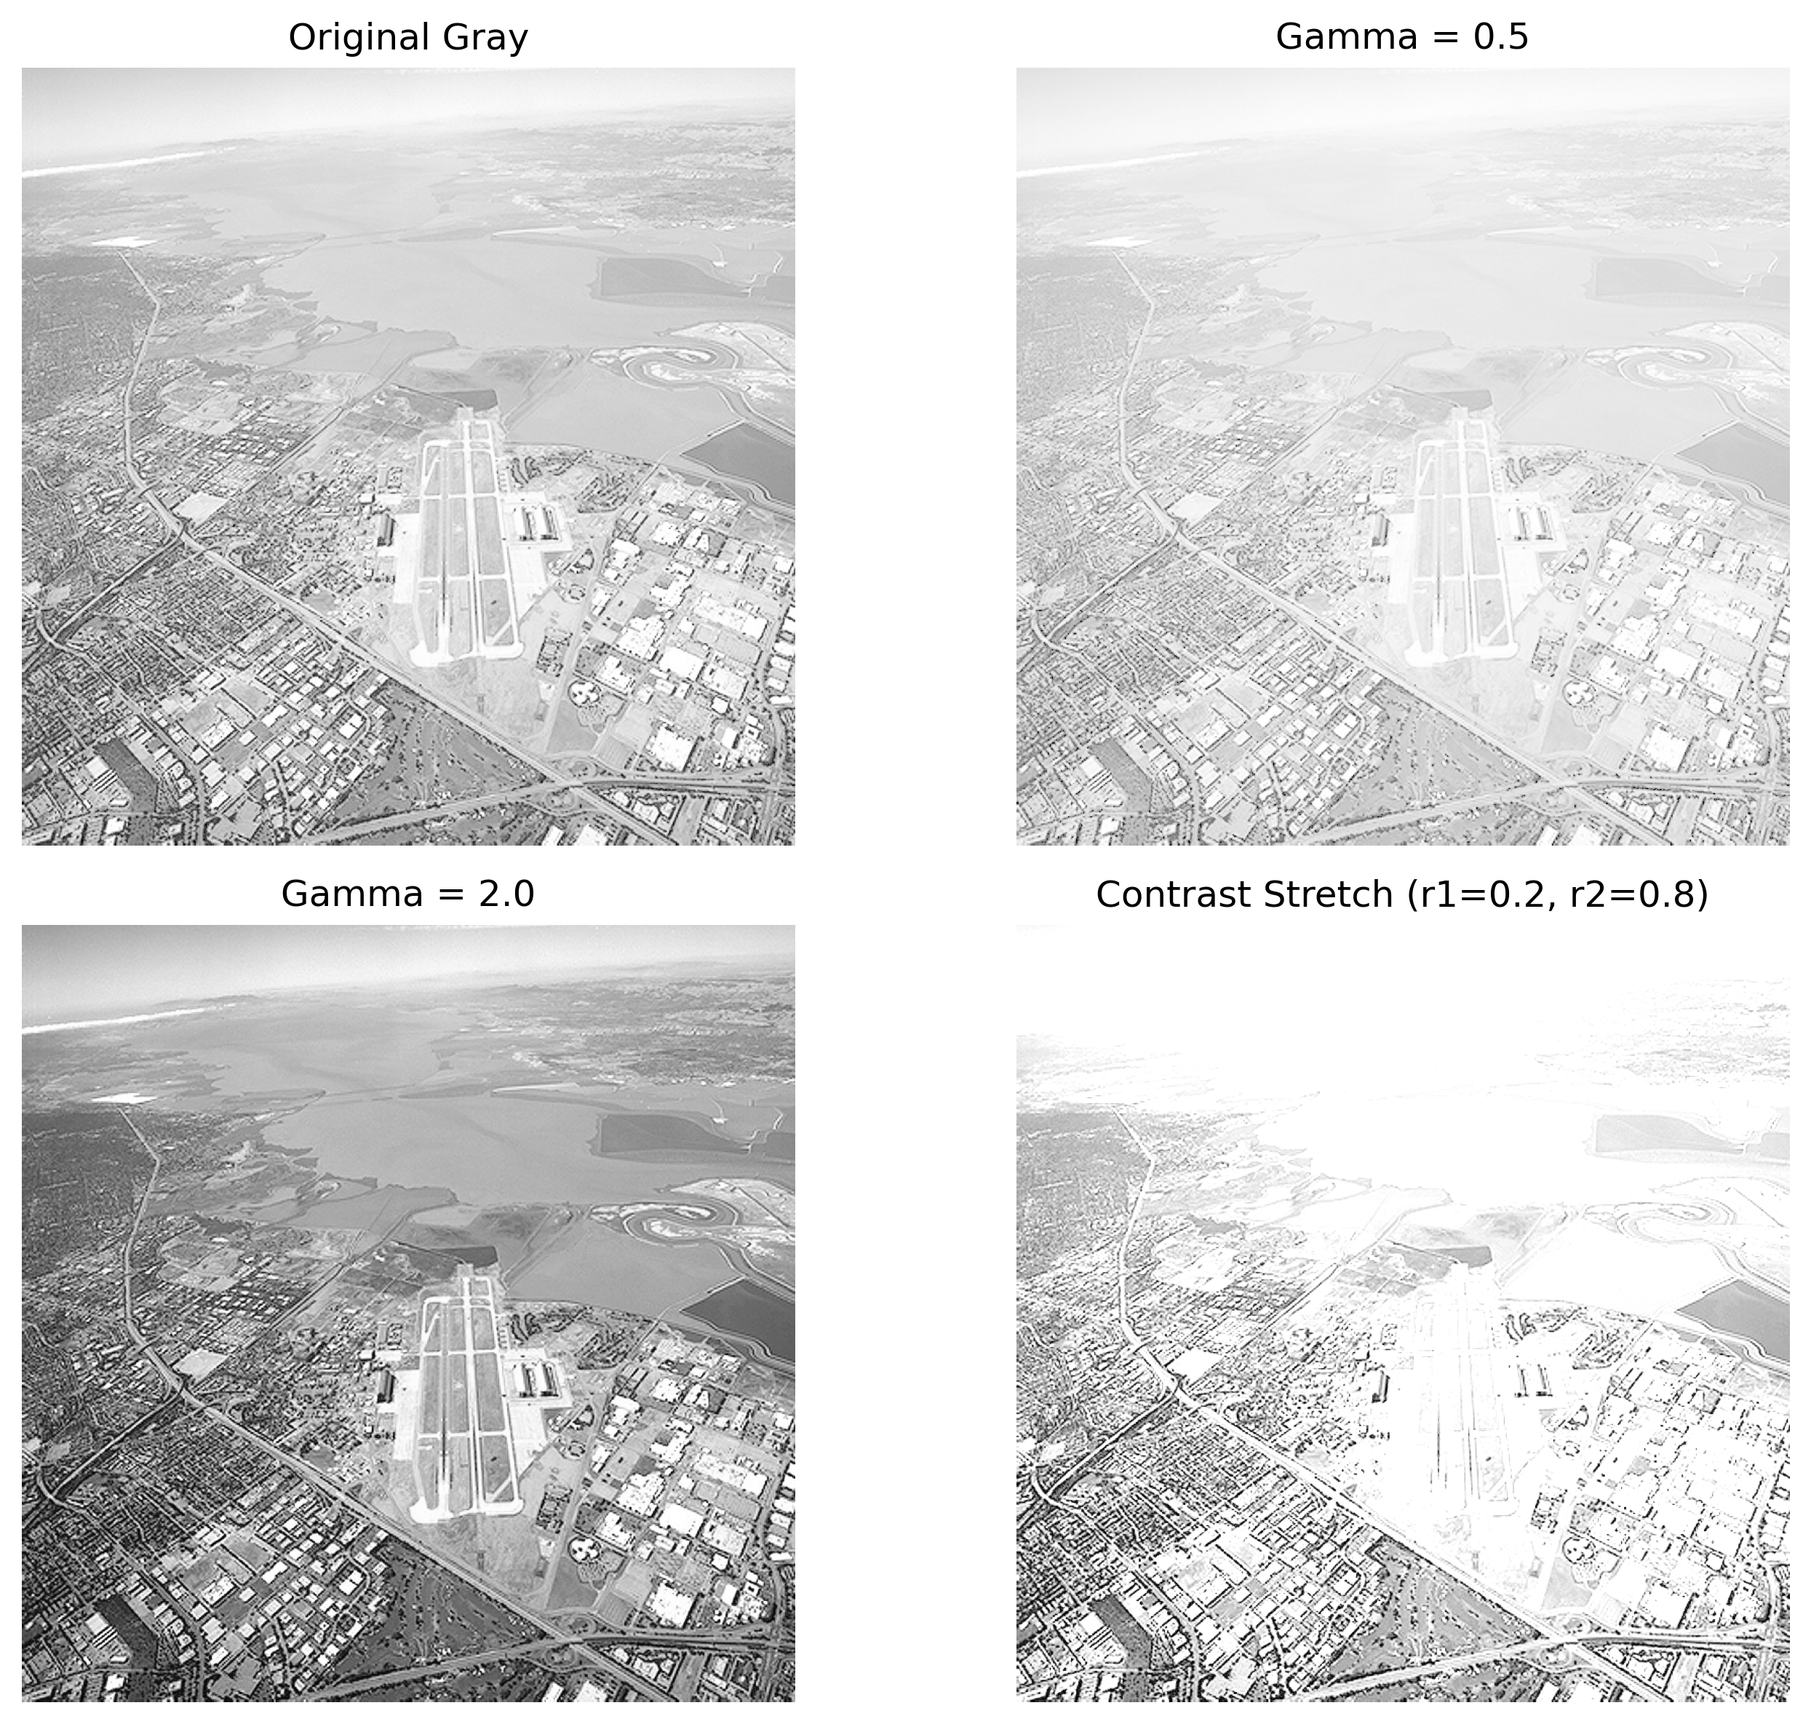
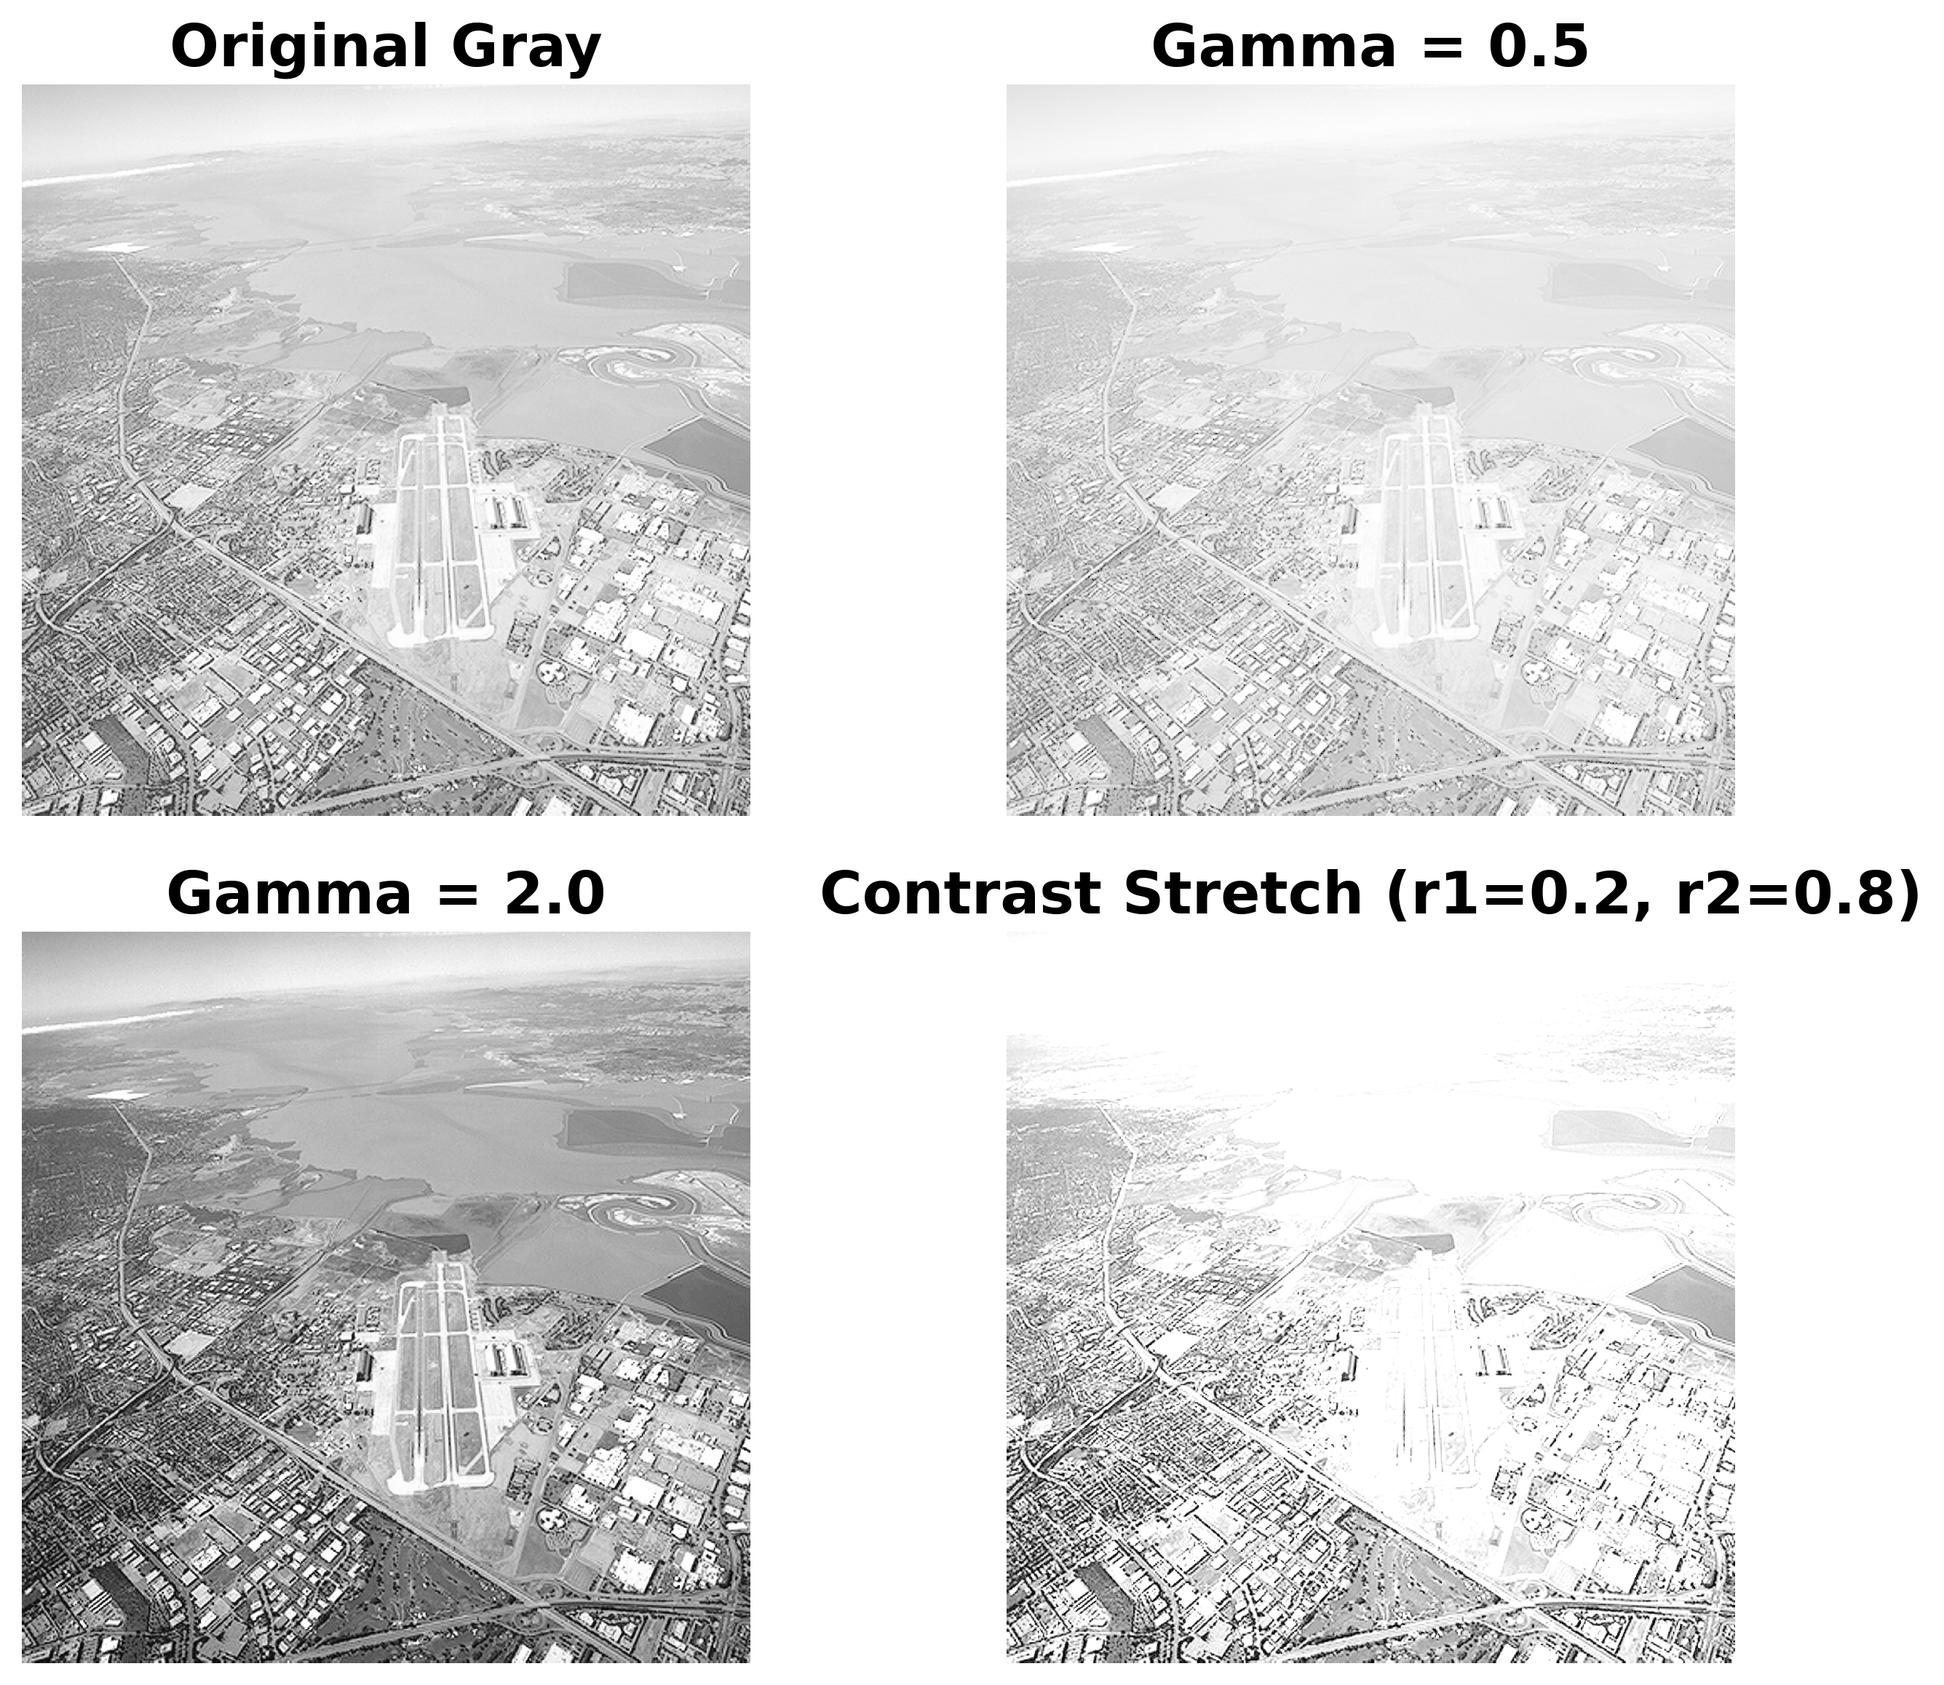
refactor: automate result saving and visualization for intensity transforms and image filtering tasks

diff --git a/code/question5.py b/code/question5.py
@@ -1,7 +1,9 @@
 import numpy as np
 import cv2
 import matplotlib.pyplot as plt
+plt.rcParams.update({'font.size': 16, 'font.weight': 'bold', 'axes.titleweight': 'bold', 'axes.labelweight': 'bold'})
 from mpl_toolkits.mplot3d import Axes3D
+from pathlib import Path
 
 def get_gaussian_kernel(size, sigma):
     """
@@ -19,12 +21,8 @@ def get_gaussian_kernel(size, sigma):
     kernel /= kernel.sum()
     return kernel
 
-# --- (a) Compute 5x5 kernel for sigma = 2 ---
-kernel_5x5 = get_gaussian_kernel(5, 2)
-print("5x5 Gaussian Kernel (sigma=2):\n", kernel_5x5)
-
 # --- (b) Visualize 51x51 kernel as a 3D surface plot ---
-def visualize_kernel_3d(size, sigma):
+def visualize_kernel_3d(size, sigma, output_path):
     kernel = get_gaussian_kernel(size, sigma)
     k = (size - 1) / 2
     x, y = np.mgrid[-k:k+1, -k:k+1]
@@ -39,46 +37,73 @@ def visualize_kernel_3d(size, sigma):
     ax.set_ylabel('Y')
     ax.set_zlabel('Kernel Coefficient (Height)')
     fig.colorbar(surf, ax=ax, shrink=0.5, aspect=5)
-    plt.show()
+    plt.savefig(output_path, dpi=300, bbox_inches='tight')
+    plt.close()
 
-visualize_kernel_3d(51, 2)
+def main():
+    root = Path(__file__).resolve().parent
+    output_dir = root.parent / "saved_results"
+    output_dir.mkdir(parents=True, exist_ok=True)
 
-# --- (c) & (d) Apply Smoothing ---
-# Load the runway image in grayscale [cite: 4, 5]
-# Replace 'runway.png' with your actual file path
-img = cv2.imread('runway.png', cv2.IMREAD_GRAYSCALE)
+    # --- (a) Compute 5x5 kernel for sigma = 2 ---
+    kernel_5x5 = get_gaussian_kernel(5, 2)
+    print("5x5 Gaussian Kernel (sigma=2):\n", kernel_5x5)
 
-if img is None:
-    print("Error: Could not load image. Please check the file path.")
-else:
-    # (c) Manual smoothing using the computed 5x5 kernel [cite: 28]
-    # cv2.filter2D performs the convolution operation
-    manual_blurred = cv2.filter2D(img, -1, kernel_5x5)
+    # --- (b) Visualize 51x51 kernel as a 3D surface plot ---
+    visualize_kernel_3d(51, 2, output_dir / "question5_3d_kernel.png")
 
-    # (d) Using OpenCV's built-in function [cite: 29]
-    opencv_blurred = cv2.GaussianBlur(img, (5, 5), 2)
+    # --- (c) & (d) Apply Smoothing ---
+    input_path = root / "runway.png"
+    if not input_path.exists():
+        input_path = root.parent / "saved_results" / "runway.png"
+    if not input_path.exists():
+        raise FileNotFoundError(f"Cannot find runway image at {input_path}")
+        
+    img = cv2.imread(str(input_path), cv2.IMREAD_GRAYSCALE)
 
-    # Display results for comparison [cite: 96]
-    plt.figure(figsize=(15, 5))
-    
-    plt.subplot(1, 3, 1)
-    plt.title("Original Grayscale")
-    plt.imshow(img, cmap='gray')
-    plt.axis('off')
+    if img is None:
+        print("Error: Could not load image. Please check the file path.")
+    else:
+        # (c) Manual smoothing using the computed 5x5 kernel
+        manual_blurred = cv2.filter2D(img, -1, kernel_5x5)
+        cv2.imwrite(str(output_dir / "runway_manual_gaussian_5x5.png"), manual_blurred)
 
-    plt.subplot(1, 3, 2)
-    plt.title("Manual Gaussian Filter")
-    plt.imshow(manual_blurred, cmap='gray')
-    plt.axis('off')
+        # (d) Using OpenCV's built-in function
+        opencv_blurred = cv2.GaussianBlur(img, (5, 5), 2)
+        cv2.imwrite(str(output_dir / "runway_opencv_gaussian_5x5.png"), opencv_blurred)
 
-    plt.subplot(1, 3, 3)
-    plt.title("OpenCV Gaussian Blur")
-    plt.imshow(opencv_blurred, cmap='gray')
-    plt.axis('off')
+        # Display results for comparison
+        plt.figure(figsize=(15, 5))
+        
+        plt.subplot(1, 3, 1)
+        plt.title("Original Grayscale")
+        plt.imshow(img, cmap='gray')
+        plt.axis('off')
 
-    plt.tight_layout()
-    plt.show()
+        plt.subplot(1, 3, 2)
+        plt.title("Manual Gaussian Filter")
+        plt.imshow(manual_blurred, cmap='gray')
+        plt.axis('off')
 
-    # Quantitative Comparison for the report [cite: 96, 97]
-    difference = cv2.absdiff(manual_blurred, opencv_blurred)
-    print(f"Mean absolute difference: {np.mean(difference)}")
+        plt.subplot(1, 3, 3)
+        plt.title("OpenCV Gaussian Blur")
+        plt.imshow(opencv_blurred, cmap='gray')
+        plt.axis('off')
+
+        plt.tight_layout()
+        grid_path = output_dir / "question5_comparison_grid.png"
+        plt.savefig(grid_path, dpi=300, bbox_inches='tight')
+        plt.close()
+
+        # Quantitative Comparison for the report
+        difference = cv2.absdiff(manual_blurred, opencv_blurred)
+        print(f"Mean absolute difference: {np.mean(difference)}")
+        
+        print(f"\nSaved to {output_dir}:")
+        print(" - question5_3d_kernel.png")
+        print(" - runway_manual_gaussian_5x5.png")
+        print(" - runway_opencv_gaussian_5x5.png")
+        print(f" - {grid_path.name}")
+
+if __name__ == "__main__":
+    main()

diff --git a/code/question4.py b/code/question4.py
@@ -2,6 +2,8 @@ from pathlib import Path
 import numpy as np
 from PIL import Image
 from scipy import ndimage
+import matplotlib.pyplot as plt
+plt.rcParams.update({'font.size': 16, 'font.weight': 'bold', 'axes.titleweight': 'bold', 'axes.labelweight': 'bold'})
 
 def load_image_gray(path: Path) -> np.ndarray:
     image = Image.open(path).convert("L")
@@ -56,45 +58,88 @@ def gaussian_filter(image: np.ndarray, sigma: float) -> np.ndarray:
 
 def main() -> None:
     root = Path(__file__).resolve().parent
-    input_path = root / "Woman.jpg"
-    if not input_path.exists():
-        raise FileNotFoundError(f"Cannot find image at {input_path}")
+    input_paths_to_try = [
+        root / "Woman.jpg",
+        root.parent / "Woman.jpg",
+        root.parent / "a1images" / "Woman.jpg",
+        root.parent / "woman.avif"
+    ]
+    input_path = next((p for p in input_paths_to_try if p.exists()), None)
+    if not input_path:
+        raise FileNotFoundError("Cannot find Woman.jpg or equivalent image in expected directories.")
+
+    output_dir = root.parent / "saved_results"
+    output_dir.mkdir(parents=True, exist_ok=True)
 
     # Load and convert to grayscale
     image_gray = load_image_gray(input_path)
-    save_image(image_gray, root / "woman_grayscale.png")
+    save_image(image_gray, output_dir / "woman_grayscale.png")
 
     # Apply Otsu thresholding
     threshold = otsu_threshold(image_gray)
     mask = (image_gray >= threshold).astype(np.uint8) * 255
-    save_image(mask, root / "woman_otsu_mask.png")
+    save_image(mask, output_dir / "woman_otsu_mask.png")
 
     # Foreground equalization
     equalized = foreground_equalization(image_gray, mask > 0)
-    save_image(equalized, root / "woman_foreground_equalized.png")
+    save_image(equalized, output_dir / "woman_foreground_equalized.png")
 
     # Convert to float for filtering
     equalized_float = equalized.astype(np.float32) / 255.0
 
     # Apply mean filter with 3x3 kernel
     mean_filtered = mean_filter(equalized_float, 3)
-    save_image((mean_filtered * 255).astype(np.uint8), root / "woman_mean_filter_3x3.png")
+    save_image((mean_filtered * 255).astype(np.uint8), output_dir / "woman_mean_filter_3x3.png")
 
     # Apply median filter with 3x3 kernel
     median_filtered = median_filter(equalized_float, 3)
-    save_image((median_filtered * 255).astype(np.uint8), root / "woman_median_filter_3x3.png")
+    save_image((median_filtered * 255).astype(np.uint8), output_dir / "woman_median_filter_3x3.png")
 
     # Apply Gaussian filter with sigma=1.0
     gaussian_filtered = gaussian_filter(equalized_float, 1.0)
-    save_image((gaussian_filtered * 255).astype(np.uint8), root / "woman_gaussian_filter_sigma1.png")
+    save_image((gaussian_filtered * 255).astype(np.uint8), output_dir / "woman_gaussian_filter_sigma1.png")
 
-    print("Saved:")
+    # Comparison Grid
+    fig, axes = plt.subplots(2, 3, figsize=(15, 10))
+    axes = axes.flatten()
+    
+    axes[0].imshow(image_gray, cmap='gray')
+    axes[0].set_title('Grayscale')
+    axes[0].axis('off')
+    
+    axes[1].imshow(mask, cmap='gray')
+    axes[1].set_title('Otsu Mask')
+    axes[1].axis('off')
+    
+    axes[2].imshow(equalized, cmap='gray')
+    axes[2].set_title('Foreground Equalized')
+    axes[2].axis('off')
+    
+    axes[3].imshow((mean_filtered * 255).astype(np.uint8), cmap='gray')
+    axes[3].set_title('Mean Filter (3x3)')
+    axes[3].axis('off')
+    
+    axes[4].imshow((median_filtered * 255).astype(np.uint8), cmap='gray')
+    axes[4].set_title('Median Filter (3x3)')
+    axes[4].axis('off')
+    
+    axes[5].imshow((gaussian_filtered * 255).astype(np.uint8), cmap='gray')
+    axes[5].set_title('Gaussian Filter (sigma=1.0)')
+    axes[5].axis('off')
+    
+    plt.tight_layout()
+    grid_path = output_dir / "question4_comparison_grid.png"
+    plt.savefig(grid_path, dpi=300, bbox_inches='tight')
+    plt.close()
+
+    print(f"Saved to {output_dir}:")
     print(" - woman_grayscale.png")
     print(" - woman_otsu_mask.png")
     print(" - woman_foreground_equalized.png")
     print(" - woman_mean_filter_3x3.png")
     print(" - woman_median_filter_3x3.png")
     print(" - woman_gaussian_filter_sigma1.png")
+    print(f" - {grid_path.name}")
 
 if __name__ == "__main__":
     main()

diff --git a/code/question2.py b/code/question2.py
@@ -2,6 +2,7 @@ from pathlib import Path
 import numpy as np
 from PIL import Image
 import matplotlib.pyplot as plt
+plt.rcParams.update({'font.size': 16, 'font.weight': 'bold', 'axes.titleweight': 'bold', 'axes.labelweight': 'bold'})
 
 def load_image(path: Path) -> np.ndarray:
     image = Image.open(path)
@@ -19,7 +20,7 @@ def gamma_correction_lab_L(image_lab: np.ndarray, gamma: float) -> np.ndarray:
     L_corrected = 100 * np.power(L / 100, gamma)
     return np.stack([L_corrected, a, b], axis=-1)
 
-def plot_histograms(original_L, corrected_L, title1, title2):
+def plot_histograms(original_L, corrected_L, title1, title2, output_path):
     plt.figure(figsize=(12, 5))
     
     plt.subplot(1, 2, 1)
@@ -35,14 +36,18 @@ def plot_histograms(original_L, corrected_L, title1, title2):
     plt.ylabel('Count')
     
     plt.tight_layout()
-    plt.savefig('q2_histograms.png')  # Save instead of show
-    print("Histograms saved as q2_histograms.png")
+    plt.savefig(output_path, dpi=300, bbox_inches='tight')
+    plt.close()
+    print(f"Histograms saved as {output_path.name}")
 
 def main() -> None:
     root = Path(__file__).resolve().parent
-    input_path = root / "a1images" / "highlights_and_shadows.jpg"
+    input_path = root.parent / "a1images" / "highlights_and_shadows.jpg"
     if not input_path.exists():
         raise FileNotFoundError(f"Cannot find image at {input_path}")
+
+    output_dir = root.parent / "saved_results"
+    output_dir.mkdir(parents=True, exist_ok=True)
 
     # Load image
     image_rgb = load_image(input_path)
@@ -61,15 +66,34 @@ def main() -> None:
     corrected_rgb = np.asarray(corrected_pil, dtype=np.float32) / 255.0
     
     # Save corrected image
-    save_image(corrected_rgb, root / "highlights_and_shadows_gamma_corrected.jpg")
+    save_image(corrected_rgb, output_dir / "highlights_and_shadows_gamma_corrected.jpg")
     
     # Plot histograms of L channels
     original_L = lab_array[:, :, 0]
     corrected_L = lab_corrected[:, :, 0]
-    plot_histograms(original_L, corrected_L, 'Original L Channel Histogram', 'Gamma Corrected L Channel Histogram')
+    hist_path = output_dir / "question2_histograms.png"
+    plot_histograms(original_L, corrected_L, 'Original L Channel Histogram', 'Gamma Corrected L Channel Histogram', hist_path)
+    
+    # Plot comparison grid
+    fig, axes = plt.subplots(1, 2, figsize=(12, 6))
+    axes[0].imshow(image_rgb)
+    axes[0].set_title('Original RGB')
+    axes[0].axis('off')
+    
+    axes[1].imshow(corrected_rgb)
+    axes[1].set_title('Gamma Corrected RGB')
+    axes[1].axis('off')
+    
+    plt.tight_layout()
+    grid_path = output_dir / "question2_comparison_grid.png"
+    plt.savefig(grid_path, dpi=300, bbox_inches='tight')
+    plt.close()
     
     print(f"Gamma value used: {gamma}")
-    print("Saved: highlights_and_shadows_gamma_corrected.jpg")
+    print(f"Saved to {output_dir}:")
+    print(" - highlights_and_shadows_gamma_corrected.jpg")
+    print(f" - {hist_path.name}")
+    print(f" - {grid_path.name}")
 
 if __name__ == "__main__":
     main()

diff --git a/code/question3.py b/code/question3.py
@@ -2,6 +2,7 @@ from pathlib import Path
 import numpy as np
 from PIL import Image
 import matplotlib.pyplot as plt
+plt.rcParams.update({'font.size': 16, 'font.weight': 'bold', 'axes.titleweight': 'bold', 'axes.labelweight': 'bold'})
 
 def load_image_gray(path: Path) -> np.ndarray:
     image = Image.open(path).convert("L")
@@ -20,7 +21,7 @@ def histogram_equalization(image: np.ndarray) -> np.ndarray:
     equalized = equalized.reshape(img_255.shape).astype(np.uint8)
     return equalized.astype(np.float32) / 255.0
 
-def plot_histograms(original, equalized):
+def plot_histograms(original, equalized, output_path):
     plt.figure(figsize=(12, 5))
     
     plt.subplot(1, 2, 1)
@@ -36,24 +37,48 @@ def plot_histograms(original, equalized):
     plt.ylabel('Frequency')
     
     plt.tight_layout()
-    plt.savefig('histograms.png')  # Save instead of show
-    print("Histograms saved as histograms.png")
+    plt.savefig(output_path, dpi=300, bbox_inches='tight')
+    plt.close()
+    print(f"Histograms saved as {output_path.name}")
 
 def main() -> None:
     root = Path(__file__).resolve().parent
     input_path = root / "runway.png"
     if not input_path.exists():
+        input_path = root.parent / "saved_results" / "runway.png"
+    if not input_path.exists():
         raise FileNotFoundError(f"Cannot find runway image at {input_path}")
+
+    output_dir = root.parent / "saved_results"
+    output_dir.mkdir(parents=True, exist_ok=True)
 
     image = load_image_gray(input_path)
     
     equalized = histogram_equalization(image)
     
-    save_image(equalized, root / "runway_equalized.png")
+    save_image(equalized, output_dir / "runway_equalized.png")
     
-    plot_histograms(image, equalized)
+    hist_path = output_dir / "question3_histograms.png"
+    plot_histograms(image, equalized, hist_path)
     
-    print("Saved: runway_equalized.png")
+    fig, axes = plt.subplots(1, 2, figsize=(10, 5))
+    axes[0].imshow(image, cmap='gray', vmin=0, vmax=1)
+    axes[0].set_title('Original Gray')
+    axes[0].axis('off')
+    
+    axes[1].imshow(equalized, cmap='gray', vmin=0, vmax=1)
+    axes[1].set_title('Histogram Equalized')
+    axes[1].axis('off')
+    
+    plt.tight_layout()
+    grid_path = output_dir / "question3_comparison_grid.png"
+    plt.savefig(grid_path, dpi=300, bbox_inches='tight')
+    plt.close()
+    
+    print(f"Saved to {output_dir}:")
+    print(" - runway_equalized.png")
+    print(f" - {hist_path.name}")
+    print(f" - {grid_path.name}")
 
 if __name__ == "__main__":
     main()

diff --git a/code/question1_intensity_transforms.py b/code/question1_intensity_transforms.py
@@ -1,6 +1,7 @@
 from pathlib import Path
 
 import matplotlib.pyplot as plt
+plt.rcParams.update({'font.size': 16, 'font.weight': 'bold', 'axes.titleweight': 'bold', 'axes.labelweight': 'bold'})
 import numpy as np
 from PIL import Image
 
